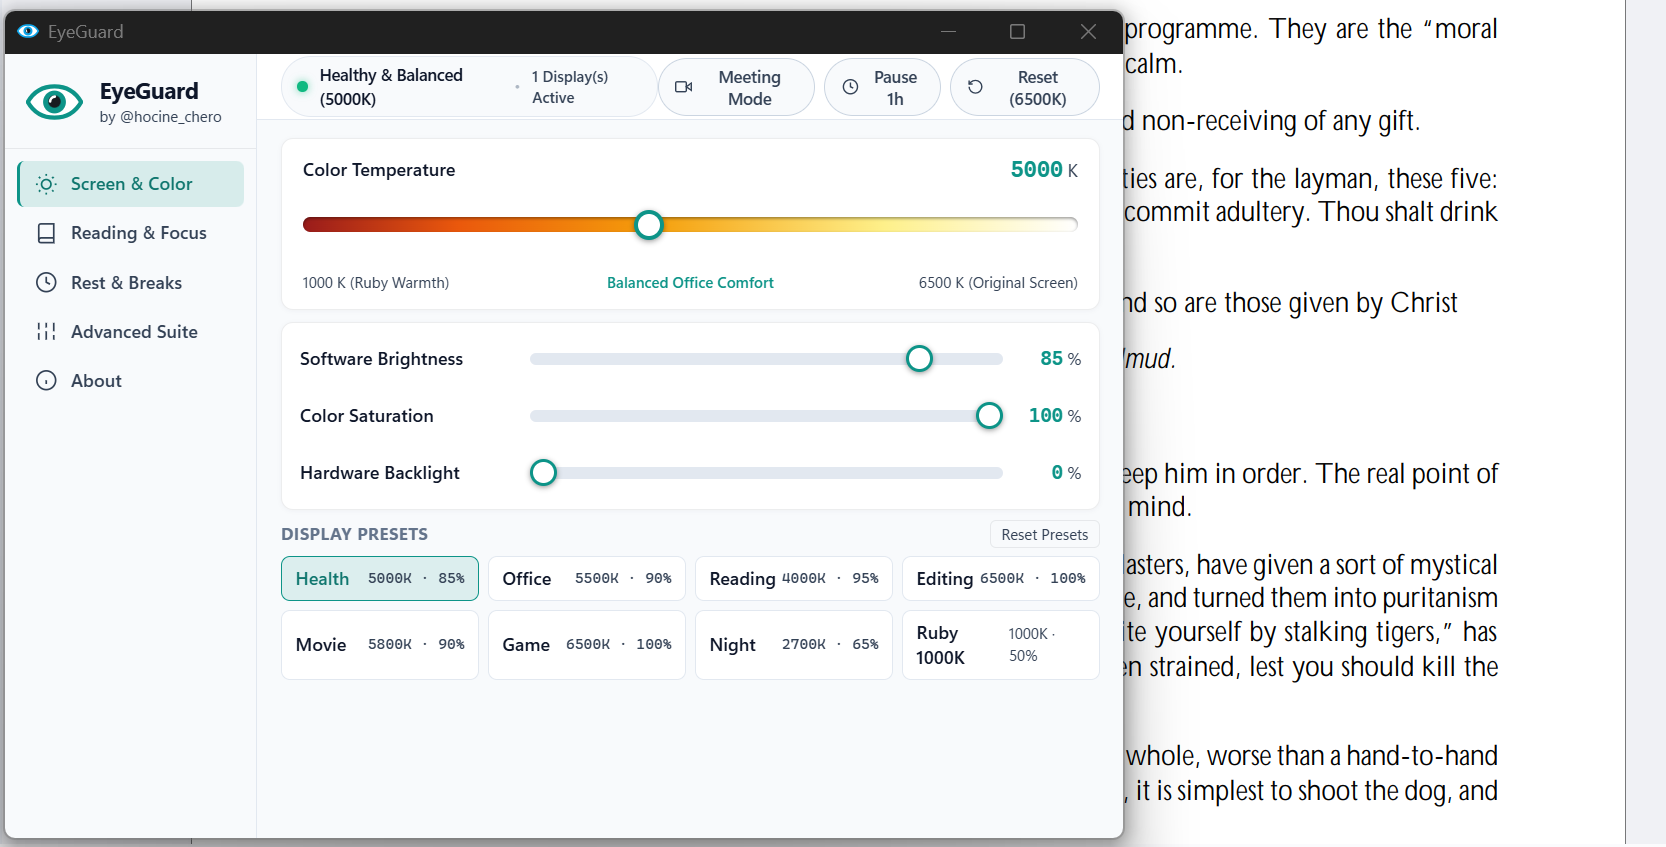
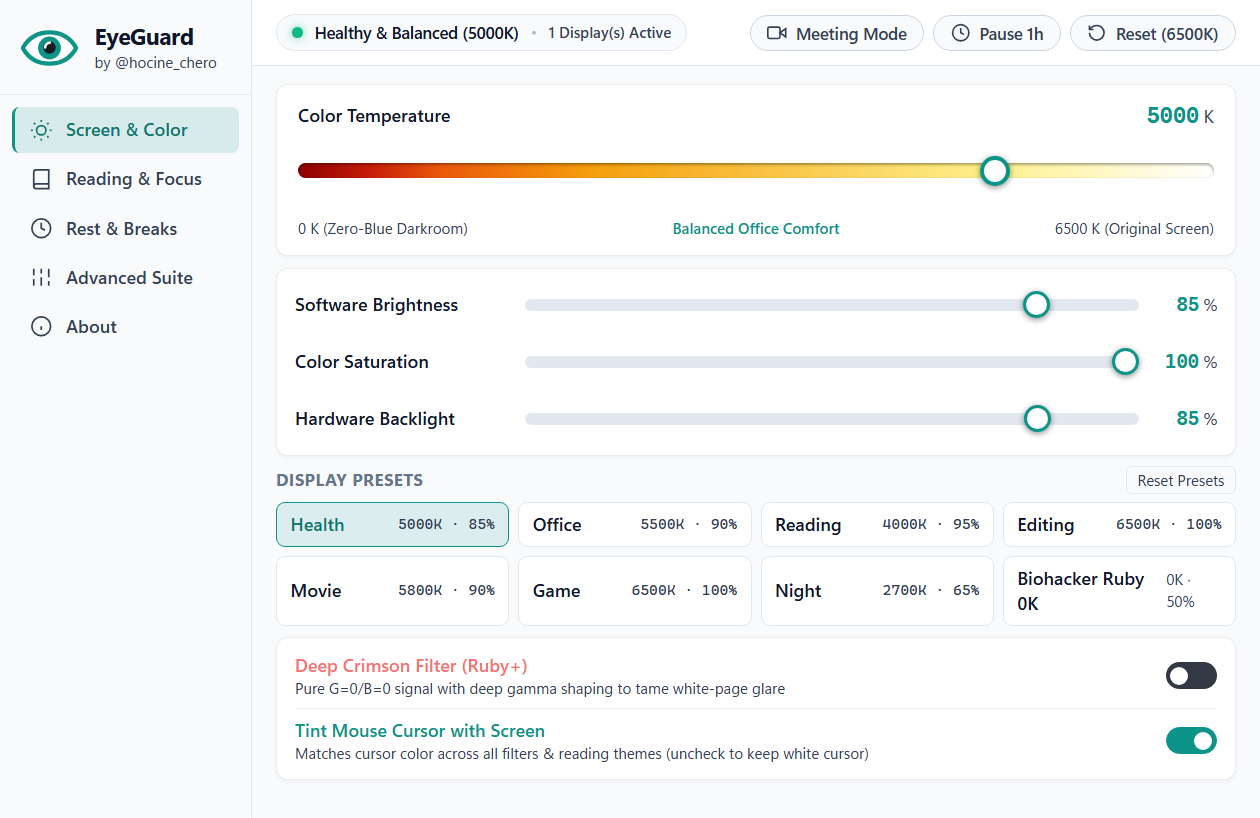
docs: add v3.1.0 highlights and refresh UI screenshots on website

diff --git a/docs/index.html b/docs/index.html
@@ -467,6 +467,39 @@
       border-radius: 8px;
     }
 
+    /* What's New v3.1.0 Highlight */
+    .release-banner {
+      background: linear-gradient(135deg, rgba(20, 184, 166, 0.08), rgba(239, 68, 68, 0.06));
+      border: 1px solid var(--border-accent);
+      border-radius: var(--radius-md);
+      padding: 26px;
+      margin-bottom: 34px;
+    }
+    .release-banner-head {
+      display: flex;
+      flex-wrap: wrap;
+      align-items: center;
+      justify-content: space-between;
+      gap: 10px;
+      margin-bottom: 18px;
+    }
+    .release-banner-head h3 {
+      font-size: 1.2rem;
+      font-weight: 800;
+    }
+    .badge-crimson {
+      font-family: var(--font-mono);
+      font-size: 0.74rem;
+      font-weight: 600;
+      padding: 3px 9px;
+      border-radius: 6px;
+      background: rgba(239, 68, 68, 0.14);
+      color: #fca5a5;
+      border: 1px solid rgba(239, 68, 68, 0.35);
+      display: inline-block;
+      margin-bottom: 10px;
+    }
+
     /* Comparison Table */
     .table-wrap {
       overflow-x: auto;
@@ -587,7 +620,7 @@
         <h1>The First <span>Full-Desktop E-Reader</span> &amp; Eye Care Suite for Windows</h1>
 
         <p class="hero-sub">
-          Turn every PDF viewer, browser tab, Word document, and code editor into a calm paper-like reading surface — with zero-lag Reading Ruler, Spotlight Focus, 22 reading palettes, flicker-free dimming, and 20-20-20 break protection.
+          Turn every PDF viewer, browser tab, Word document, and code editor into a calm paper-like reading surface — with zero-lag Reading Ruler, Spotlight Focus, 22 reading palettes, Deep Crimson 0K, hardware cursor tinting, 1% flicker-free dimming, and 20-20-20 break protection.
         </p>
 
         <div class="cta-group">
@@ -649,9 +682,9 @@
             <p>Kindle Paperwhite tint, Warm Sepia, Night Contrast, Terminal Slate, 15 Xodo Pro themes, plus full custom color rules per application.</p>
           </div>
           <div class="card">
-            <span class="card-tag">0K – 6500K</span>
-            <h3>Zero-Flicker Dimming</h3>
-            <p>Software luminance down to 5% with zero PWM hardware backlight flicker, paired with a 3-stage circadian solar curve.</p>
+            <span class="card-tag">0K – 6500K • Deep Crimson</span>
+            <h3>Zero-Flicker 1% Dimming</h3>
+            <p>Calibrated luminance down to 1% with zero PWM flicker, pure zero-blue/green Deep Crimson (Ruby+), hardware cursor tinting, and a 3-stage circadian curve.</p>
           </div>
           <div class="card">
             <span class="card-tag">20-20-20 Rule</span>
@@ -662,6 +695,34 @@
             <span class="card-tag">CrashGuard</span>
             <h3>Fail-Safe Gamma Recovery</h3>
             <p>An isolated Win32 watchdog restores native hardware display gamma in under 200ms if anything unexpectedly closes or crashes.</p>
+          </div>
+        </div>
+
+        <!-- What's New in v3.1.0 -->
+        <div class="release-banner" id="whats-new">
+          <div class="release-banner-head">
+            <div>
+              <span class="card-tag" style="margin-bottom:6px;">Release Notes • v3.1.0</span>
+              <h3>What&apos;s New in EyeGuard v3.1.0</h3>
+            </div>
+            <a class="btn btn-secondary" style="padding:7px 14px; font-size:0.84rem;" href="https://github.com/hocinechero/EyeGuard/releases/tag/v3.1.0" target="_blank" rel="noopener">Full Changelog on GitHub ↗</a>
+          </div>
+          <div class="grid-3">
+            <div class="card" style="background:var(--bg-surface);">
+              <span class="badge-crimson">Deep Crimson (Ruby+)</span>
+              <h3>True Monochrome Red Darkroom</h3>
+              <p>Non-linear hardware LUT (<code>G=0, B=0</code>) tames harsh white-page glare at night, and automatically exits cleanly whenever you adjust Kelvin, select a preset, or enable Circadian mode.</p>
+            </div>
+            <div class="card" style="background:var(--bg-surface);">
+              <span class="card-tag">Hybrid LUT + DWM</span>
+              <h3>Hardware Cursor Tinting</h3>
+              <p>Enabled by default so your mouse pointer matches warm temperatures, Deep Crimson, and all 22 reading themes — or toggle OFF in one click to keep a crisp white cursor.</p>
+            </div>
+            <div class="card" style="background:var(--bg-surface);">
+              <span class="card-tag">Optics &amp; Baseline Guard</span>
+              <h3>Distinct 0K Ruby &amp; Clean Recovery</h3>
+              <p>Separates pure 0K darkroom red from 1000K ember warmth, guards baseline LUT capture against double-tinting, and expands dimming smoothly down to 1%.</p>
+            </div>
           </div>
         </div>
 
@@ -753,7 +814,7 @@
                 <td class="col-highlight">Yes (22 Palettes + Picker)</td>
               </tr>
               <tr>
-                <td>Ultra-Deep Dimming (Down to 5%)</td>
+                <td>Ultra-Deep Dimming (Down to 1%)</td>
                 <td>No</td>
                 <td>No</td>
                 <td>$20/yr</td>
